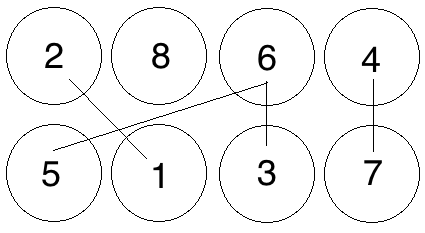
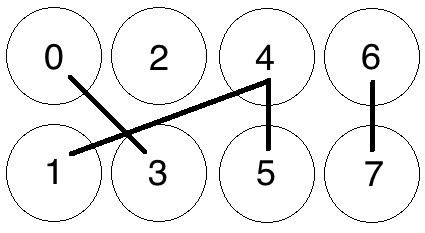
POW Doc updates (#73)
* Clarifications to SHA3 hash and addition of progress-freeness concept in Pooling Capacity
* Update to cuckoo cycle details based on John Tromp's comments.
* A couple of typos
* More clarifications based on John Tromp's feedback

diff --git a/doc/pow/pow.md b/doc/pow/pow.md
@@ -7,12 +7,12 @@ This document is meant to outline, at a level suitable for someone without prior
 the algorithms and processes currently involved in Grin's Proof-of-Work system. We'll start
 with a general overview of cycles in a graph and the Cuckoo Cycle algorithm which forms the 
 basis of Grin's proof-of-work. We'll then move on to Grin-specific details, which will outline
-the other systems that combine with Cuckoo Cycles to form the entirety of mining in Grin.
+the other systems that combine with Cuckoo Cycle to form the entirety of mining in Grin.
 
 Please note that Grin is currently under active development, and any and all of this is subject to
 (and will) change before a general release.
 
-# Graphs and Cuckoo Cycles
+# Graphs and Cuckoo Cycle
 
 Grin's basic Proof-of-Work algorithm is called Cuckoo Cycle, which is specifically designed
 to be resistant to Bitcoin style hardware arms-races. It is primarily a memory bound algorithm,
@@ -28,12 +28,14 @@ further technical details.
 
 ## Cycles in a Graph
 
-Cuckoo Cycles is an algorithm meant to detect cycles in a random bipartite graphs graph of N nodes and M edges.
-In plainer terms, a Node is simply an element storing a value, an Edge is a line connecting two nodes,
-and a graph is bipartite when it's split into two groupings. The simple
-graph below, with values placed at random, denotes just such a graph, with 8 Nodes storing 8 values 
-divided into 2 groups (one row on top and one row on the bottom,) and zero Edges (i.e. no lines
-connecting any nodes.) 
+Cuckoo Cycle is an algorithm meant to detect cycles in a bipartite graph of N nodes 
+and M edges. In plainer terms, a bipartite graph is one in which edges (i.e. lines connecting nodes)
+go only between 2 separate groups of nodes. In the case of the Cuckoo hashtable in Cuckoo Cycle, 
+one side of the graph is an array numbered with odd indices (up to the size of the graph), and the other is numbered with even
+indices. A node is simply a numbered 'space' on either side of the Cuckoo Table, and an Edge is a 
+line connecting two nodes on opposite sides. The simple graph below denotes just such a graph, 
+with 4 nodes on the 'even' side (top), 4 nodes on the odd side (bottom) and zero Edges 
+(i.e. no lines connecting any nodes.) 
 
 ![alt text](images/cuckoo_base_numbered_minimal.png)
 
@@ -43,46 +45,50 @@ Let's throw a few Edges into the graph now, randomly:
 
 ![alt text](images/cuckoo_base_numbered_few_edges.png)
 
-*8 Nodes with 4 Edges*
+*8 Nodes with 4 Edges, no solution*
 
 We now have a randomly-generated graph with 8 nodes (N) and 4 edges (M), or an NxM graph where 
 N=8 and M=4. Our basic Proof-of-Work is now concerned with finding 'cycles' of a certain length 
-within this random graph, or, put simply, a path of connected nodes. So, if we were looking
-for a cycle of length 3 (a path connecting 3 nodes), one can be detected in this graph, 
-i.e. the path running from 5 to 6 to 3:
-
-![alt text](images/cuckoo_base_numbered_few_edges_cycle.png)
-
-*Cycle found*
+within this random graph, or, put simply, a series of connected nodes starting and ending on the 
+same node. So, if we were looking for a cycle of length 4 (a path connecting 4 nodes, starting
+and ending on the same node), one cannot be detected in this graph.
 
 Adjusting the number of Edges M relative to the number of Nodes N changes the difficulty of the 
 cycle-finding problem, and the probability that a cycle exists in the current graph. For instance,
-if our POW problem were to find a cycle of length 5 in the graph, the current difficulty of 5/8 (M/N)
-would mean that all 4 edges would need to be randomly generated in a perfect cycle in order for
-there to be a solution. If you increase the number of edges relative to the number of nodes,
-you increase the probability that a solution exists:
+if our POW problem were concerned with finding a cycle of length 4 in the graph, the current difficulty of 4/8 (M/N)
+would mean that all 4 edges would need to be randomly generated in a perfect cycle (from 0-5-4-1-0)
+in order for there to be a solution. 
+
+Let's add a few more edges, again at random:
+
+![alt text](images/cuckoo_base_numbered_few_edges_cycle.png)
+
+*Cycle Found from 0-5-4-1-0*
+
+If you increase the number of edges relative to the number 
+of nodes, you increase the probability that a solution exists. With a few more edges added to the graph above,
+a cycle of length 4 has appeared from 0-5-4-1-0, and the graph has a solution.
+
+Thus, modifying the ratio M/N changes the number of expected occurrences of a cycle for a graph with 
+randomly generated edges. 
+
+For a small graph such as the one above, determining whether a cycle of a certain length exists 
+is trivial. But as the graphs get larger, detecting such cycles becomes more difficult. For instance,
+does this graph have a cycle of length 8, i.e. 8 connected nodes starting and ending on the same node?
 
 ![alt text](images/cuckoo_base_numbered_many_edges.png)
 
-*MxN = 9x8  - Cycle of length 5 found*
-
-So modifying the ratio M/N changes the number of expected occurrences of a cycle within a randomly
-generated graph. 
-
-For a small graph such as the one above, determining whether a cycle of a certain length exists is trivial. 
-But as the graphs get larger, detecting such cycles becomes more difficult. For instance, does this
- graph have a cycle of length 7, i.e. 7 directly connected nodes?
-
-![alt text](images/cuckoo_base_numbered_many.png)
-
 *Meat-space Cycle Detection exercise*
 
-The answer is left as an exercise to the reader, but the overall takeaway is that detecting such cycles becomes
-a more difficult exercise as the size of a graph grows. It also becomes easier as M/N becomes larger, i.e. you add more edges relative to the number of nodes in a graph. 
+The answer is left as an exercise to the reader, but the overall takeaways are: 
 
-## Cuckoo Cycles
+* Detecting cycles in a graph becomes more difficult exercise as the size of a graph grows. 
+* The probability of a cycle of a given length in a graph increases as M/N becomes larger,
+i.e. you add more edges relative to the number of nodes in a graph. 
 
-The Cuckoo Cycles algorithm is a specialised algorithm designed to solve exactly this problem, and it does
+## Cuckoo Cycle
+
+The Cuckoo Cycle algorithm is a specialised algorithm designed to solve exactly this problem, and it does
 so by inserting values into a structure called a 'Cuckoo Hashtable' according to a hash which maps nodes
 into possible locations in two separate arrays. This document won't go into detail on the base algorithm, as
 it's outlined plainly enough in section 5 of the 
@@ -91,14 +97,19 @@ variants on the algorithm that make various speed/memory tradeoffs, again beyond
 However, there are a few details following from the above that we need to keep in mind before going on to more 
 technical aspects of Grin's proof-of-work.
  
-* The 'random' graphs demonstrated above are not actually random but are generated by putting nodes through a
-seeded hashing function, SIPHASH, generating two potential locations (one in each array) for each node in the graph.
-The seed will come from a hash of a block header, outlined further below. 
-* The 'Proof' created by this algorithm is a set of nonces that generate the cycle, which can be trivially validated by other nodes.
+* The 'random' edges in the graph demonstrated above are not actually random but are generated by 
+putting edge indices (0..N) through a seeded hash function, SIPHASH. Each edge index is put through the 
+SIPHASH function twice to create two edge endpoints, with the first input value being 2 * edge_index, 
+and the second 2 * edge_index+1. The seed for this function is based on a hash of a block header, 
+outlined further below.
+* The 'Proof' created by this algorithm is a set of nonces that generate a cycle of length 42, 
+which can be trivially validated by other peers.
 * Two main parameters, as explained above, are passed into the Cuckoo Cycle algorithm that affect the probability of a solution, and the
 time it takes to search the graph for a solution: 
-    * The M/N ratio outlined above, which controls the number of edges relative to the size of the graph
+    * The M/N ratio outlined above, which controls the number of edges relative to the size of the graph.
+    Cuckoo Cycle fixes M at N/2, which limits the number of cycles to a few at most.
     * The size of the graph itself
+ 
 
 How these parameters interact in practice is looked at in more [detail below](#mining-loop-difficulty-control-and-timing).
 
@@ -106,7 +117,7 @@ Now, (hopefully) armed with a basic understanding of what the Cuckoo Cycle algor
 
 # Mining in Grin
 
-The Cuckoo Cycle outlined above forms the basis of Grin's mining process, however Grin uses Cuckoo Cycles in tandem with several other systems to create a Proof-of-Work.
+The Cuckoo Cycle outlined above forms the basis of Grin's mining process, however Grin uses Cuckoo Cycle in tandem with several other systems to create a Proof-of-Work.
 
 ### Additional Difficulty Control
 
@@ -157,7 +168,7 @@ valid Proofs-of-Work to create the latest block in the chain. The following is a
             * The new block header is hashed to create a hash value
             * The cuckoo graph generator is initialised, which accepts as parameters:
                 * The hash of the potential block header, which is to be used as the key to a SIPHASH function
-                that will generate pairs of locations for each node in the graph. 
+                that will generate pairs of locations for each element in a set of nonces 0..N in the graph. 
                 * The size of the graph (a consensus value).
                 * An easiness value, (a consensus value) representing the M/N ratio described above denoting the probability
                 of a solution appearing in the graph
@@ -183,7 +194,8 @@ Controlling the overall difficulty of the mining loop requires finding a balance
   chance to have a solution as a larger graph with a lower easiness value.
 * The 'Easiness' consensus value, or the M/N ratio of the graph expressed as a percentage. The higher this value, the more likely
   it is a generated graph will contain a solution. In tandem with the above, the larger the graph, the more solutions 
-  it will contain for a given easiness value.
+  it will contain for a given easiness value. The Cuckoo Cycle implementations fix this M to N/2, giving
+  a ratio of 50%
 * The evolving network difficulty hash.  
 
 These values need to be carefully tweaked in order for the mining algorithm to find the right balance between the 
@@ -191,14 +203,14 @@ cuckoo graph size and the evolving difficulty. The POW needs to remain mostly Cu
 reasonably short block times that allow new transactions to be quickly processed.
 
 If the graph size is too low and the easiness too high, for instance, then many cuckoo cycle solutions can easily be 
-found for a given block, and the POW will start to favour those who can hash faster, precisely what Cuckoo Cycles is 
+found for a given block, and the POW will start to favour those who can hash faster, precisely what Cuckoo Cycle is 
 trying to avoid. If the graph is too large and easiness too low, however, then it can potentially take any solver a 
 long time to find a solution in a single graph, well outside a window in which you'd like to stop to collect new
 transactions.
 
-These values are currently set to 2^12 for the graph size and 50% for the easiness value, however they are only
-temporary values for testing. The current miner implementation is very unoptimised, and the graph size will need
-to be changed as faster and more optimised Cuckoo Cycle algorithms are put in place.
+These values are currently set to 2^12 for the graph size and 50% (as fixed by Cuckoo Cycle) for the easiness value, 
+however the size is only a temporary values for testing. The current miner implementation is very unoptimised, 
+and the graph size will need to be changed as faster and more optimised Cuckoo Cycle algorithms are put in place.
 
 ### Pooling Capability
 
